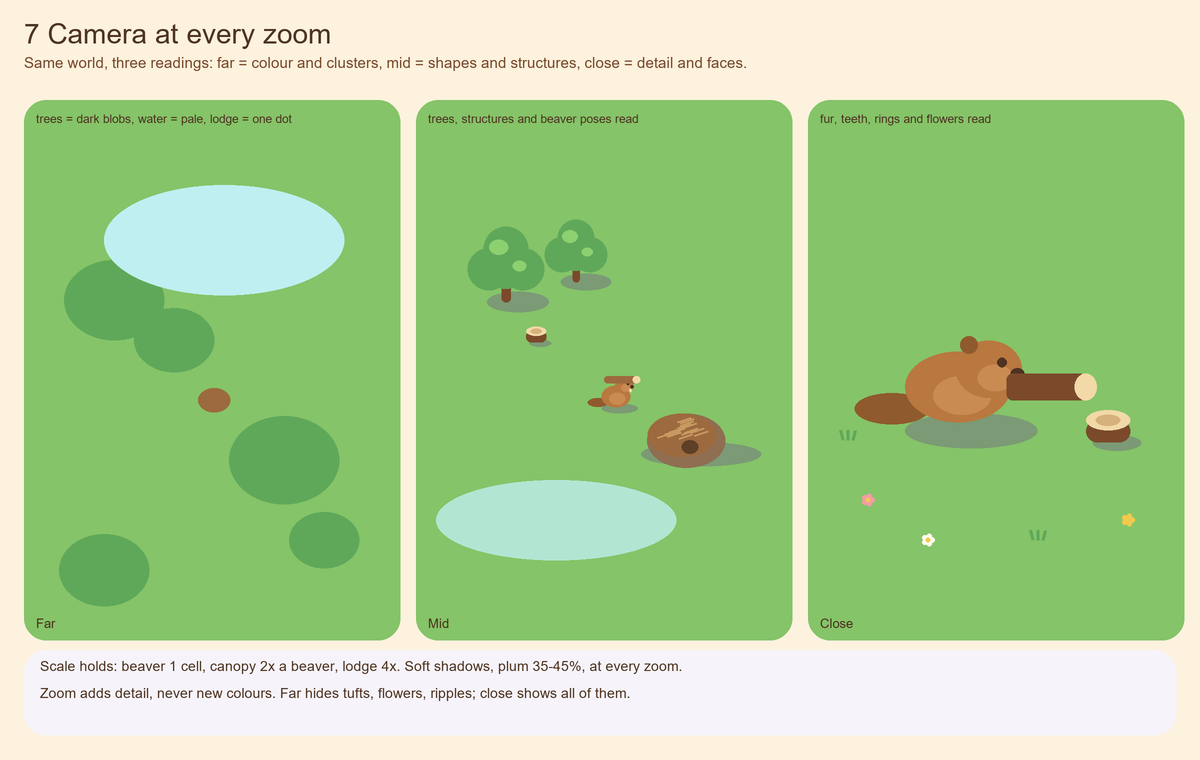
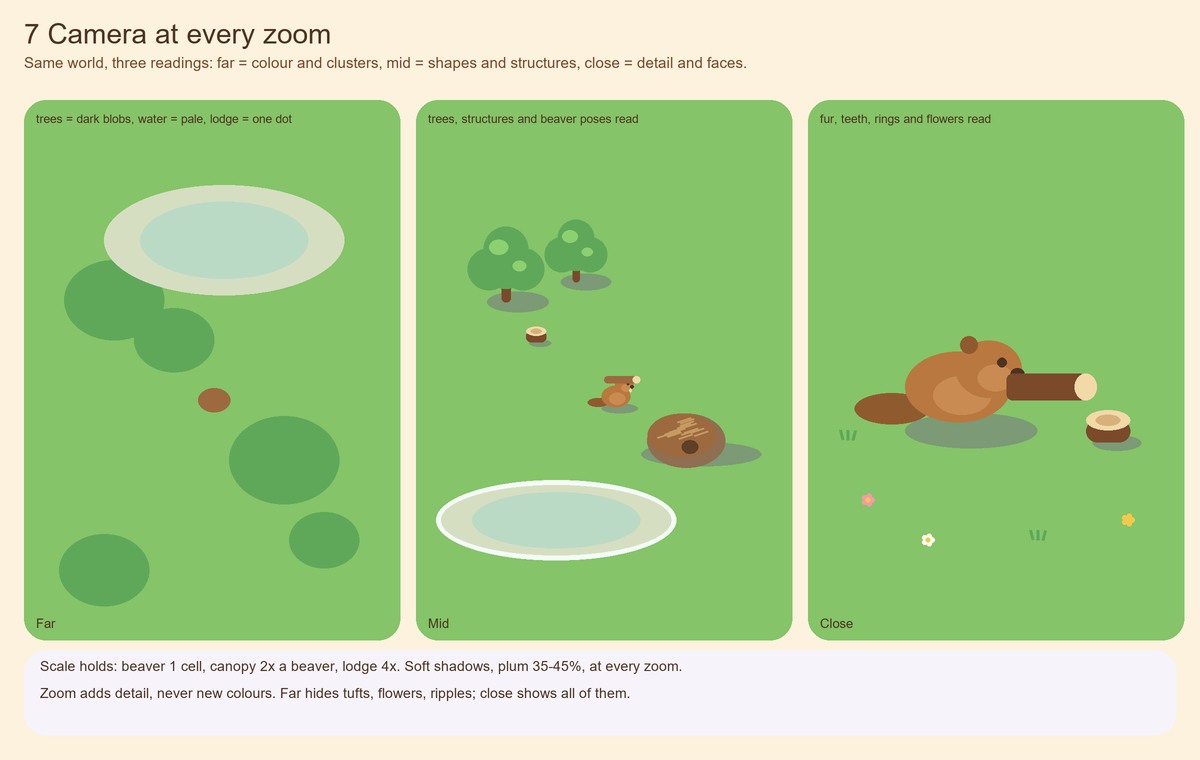
Water sheet draws nearly clear water from shared tint constants; repoint stale STYLE.md references
- palette.rs: WATER_TINT_* opacities, WATER_DEEP_NUDGE and water_band() with a unit test
- style_sheets.py: one water() helper (visible bed, one tint per depth band, foam ring) used by
  water, structures, swim pose and camera sheets; depth panels show bed at labelled opacity
- swim pose leaves foam arcs, not a white disc
- UI_SPEC.md owns UI styling and icon tile tints; code comments no longer cite the removed fix log

Changed region(s): [[0.0617, 0.2421, 0.3083, 0.3934], [0.3392, 0.6053, 0.5858, 0.7566]]

diff --git a/tools/style_sheets.py b/tools/style_sheets.py
@@ -19,7 +19,27 @@ def load_palette():
     return {n: "#%06X" % int(h, 16) for n, h in re.findall(r"pub const (\w+): Rgb = rgb\(0x([0-9A-Fa-f]{6})\)", src)}
 
 
+def load_floats():
+    src = open(os.path.join(ROOT, "crates/game/src/palette.rs"), encoding="utf-8").read()
+    return {n: float(v) for n, v in re.findall(r"pub const (\w+): f32 = ([0-9.]+);", src)}
+
+
 P = load_palette()
+F = load_floats()
+
+
+def mix_hex(a, b, t):
+    ca, cb = c(a), c(b)
+    return tuple(round(ca[i] + (cb[i] - ca[i]) * t) for i in range(3))
+
+
+def water_band(depth):
+    """(rgb, alpha 0-255) of a water band, mirroring palette::water_band."""
+    if depth == 0:
+        return c("WATER_CLEAR"), round(F["WATER_TINT_SHALLOW"] * 255)
+    if depth == 1:
+        return c("WATER_MID_GLOW"), round(F["WATER_TINT_MID"] * 255)
+    return mix_hex("WATER_CLEAR", "WATER_DEEP", F["WATER_DEEP_NUDGE"]), round(F["WATER_TINT_DEEP"] * 255)
 
 
 def c(name, alpha=None):
@@ -51,7 +71,7 @@ class Sheet:
 
     def _blend(self, draw_fn, col, a):
         """Draw a shape with real alpha blending (PIL's RGBA draw replaces pixels)."""
-        fill = c(col, a) if isinstance(col, str) else col
+        fill = c(col, a) if isinstance(col, str) else (tuple(col[:3]) + (a,) if len(col) == 3 else tuple(col))
         if len(fill) == 4 and fill[3] < 255:
             layer = Image.new("RGBA", self.img.size, (0, 0, 0, 0))
             draw_fn(ImageDraw.Draw(layer), fill)
@@ -123,6 +143,32 @@ def flower(s, x, y, col="FLOWER_WHITE"):
     s.ell(x, y, 2.2, 2.2, "FLOWER_YELLOW")
 
 
+def water(s, cx, cy, rx, ry, bed="SAND", bands=3, foam=True, bed_detail=True):
+    """A pool: visible bed, then one tint per depth band (never stacked), then a foam ring."""
+    s.ell(cx, cy, rx, ry, bed)
+    if bed_detail:
+        s.ell(cx - rx * .25, cy + ry * .15, rx * .3, ry * .28, "MUD")
+        s.ell(cx - rx * .35, cy + ry * .25, rx * .1, ry * .1, "STONE")
+        s.ell(cx + rx * .3, cy - ry * .2, rx * .18, ry * .16, "LILY")
+        rock(s, cx + rx * .05, cy + ry * .35, max(4, rx * .05))
+    # each band replaces the shallower tint inside its ellipse, so opacity never adds up
+    for d in range(bands):
+        k = 1 - d * .3
+        col, a = water_band(d)
+        layer = Image.new("RGBA", s.img.size, (0, 0, 0, 0))
+        mask = Image.new("L", s.img.size, 0)
+        ImageDraw.Draw(mask).ellipse([(cx - rx * k) * SS, (cy - ry * k) * SS, (cx + rx * k) * SS, (cy + ry * k) * SS], fill=255)
+        if d == 0:
+            base = s.img.copy()
+            s._bed = base
+        bed_img = s._bed
+        tinted = Image.alpha_composite(bed_img, Image.new("RGBA", s.img.size, col + (a,)))
+        s.img.paste(tinted, (0, 0), mask)
+    s.d = ImageDraw.Draw(s.img, "RGBA")
+    if foam:
+        s.d.ellipse([(cx - rx) * SS, (cy - ry) * SS, (cx + rx) * SS, (cy + ry) * SS], outline=c("FOAM"), width=5 * SS)
+
+
 def lodge(s, x, y, stage, scale=1.0):
     """Dome of sticks that grows: 1 mound, 2 low dome with door, 3 full dome with chimney gap and store."""
     k = scale
@@ -152,10 +198,12 @@ def dam(s, x, y, stage):
 
 def beaver(s, x, y, pose, sc=1.0):
     k = sc
-    s.shadow(x + 6 * k, y + 14 * k, 30 * k, 8 * k)
-    if pose == "swim":
-        s.ell(x, y + 8 * k, 44 * k, 10 * k, "FOAM", 150)
-        s.ell(x, y + 6 * k, 26 * k, 7 * k, "WATER_CLEAR", 140)
+    if pose != "swim":
+        s.shadow(x + 6 * k, y + 14 * k, 30 * k, 8 * k)
+    if pose == "swim":   # foam arcs at the waterline, never a white disc
+        for dx, w in ((-34, 30), (30, 26), (-4, 50)):
+            cx, cy = x + dx * k, y + (4 if dx else 12) * k
+            s.d.arc([(cx - w / 2 * k) * SS, (cy - 4 * k) * SS, (cx + w / 2 * k) * SS, (cy + 6 * k) * SS], 10, 170, fill=c("FOAM"), width=max(2, int(1.2 * k)) * SS)
         by = y - 4 * k
     else:
         by = y
@@ -237,29 +285,30 @@ def sec_ground(o):
 
 
 def sec_water(o):
-    s = Sheet("3 Water", "Nearly clear: the bed shows through a thin tint. Foam edge, soft ripples, a few lilies and reeds. No opaque blue slab.")
-    s.swatches(90, ["WATER_CLEAR", "WATER_SHALLOW", "WATER_MID_GLOW", "WATER_DEEP", "FOAM", "LILY", "REED", "SAND"], w=96)
+    s = Sheet("3 Water", "Nearly clear: the bed shows through a thin tint, 40 to 60% at most. Foam edge, soft ripples, a few lilies and reeds. No opaque blue slab.")
+    s.swatches(90, ["WATER_CLEAR", "WATER_MID_GLOW", "WATER_DEEP", "FOAM", "LILY", "REED", "SAND", "MUD"], w=96)
     s.panel(24, 210, 760, 730, "MEADOW")
-    s.ell(390, 470, 300, 190, "SAND")                       # shore
-    s.ell(390, 470, 280, 172, "MUD", 255)                   # bed visible
-    s.ell(330, 500, 90, 40, "STONE", 200); s.ell(480, 440, 60, 30, "MEADOW_DEEP", 200)  # bed features
-    s.ell(390, 470, 280, 172, "WATER_CLEAR", 120)           # clear tint: 47% of bed stays
-    s.ell(390, 470, 150, 90, "WATER_SHALLOW", 70)
-    s.d.ellipse([(390 - 280) * SS, (470 - 172) * SS, (390 + 280) * SS, (470 + 172) * SS], outline=c("FOAM"), width=6 * SS)
+    s.ell(390, 470, 300, 190, "MUD")                       # shore
+    water(s, 390, 470, 280, 172)                             # bed + three bands + foam ring
     for (x, y, w) in ((300, 410, 60), (470, 520, 70), (420, 440, 40)):
         s.d.arc([(x - w / 2) * SS, (y - 5) * SS, (x + w / 2) * SS, (y + 7) * SS], 190, 350, fill=c("FOAM"), width=2 * SS)
     for x, y in ((250, 480), (520, 470), (440, 380)):
         s.ell(x, y, 18, 10, "LILY"); s.ell(x + 3, y - 2, 6, 3, "FLOWER_PINK")
     for x in (120, 140, 660, 680):
         s.d.line([x * SS, 560 * SS, (x + 6) * SS, 500 * SS], fill=c("REED"), width=3 * SS)
-    s.text(40, 700, "Bed, stones and weed read through the water", 13)
+    s.text(40, 700, "Bed, stones and weed read through the water, even at the centre", 13)
     s.panel(790, 210, 1176, 730, "MEADOW_LIGHT", "Depth reads by tint, not by blue")
-    for i, (a, nm) in enumerate(((40, "shallow 15%"), (90, "mid 35%"), (160, "deep 55%"))):
+    for i, nm in enumerate(("shallow", "mid", "deep")):
         y = 250 + i * 110
-        s.rr(810, y, 1156, y + 90, 22, "MUD")
-        s.rr(810, y, 1156, y + 90, 22, "WATER_DEEP" if i == 2 else "WATER_CLEAR", a + 60)
+        col, a = water_band(i)
+        s.rr(810, y, 1156, y + 90, 22, "SAND")
+        s.rr(980, y, 1156, y + 90, 22, "MUD")
+        for k, bx in enumerate(range(840, 1150, 70)):            # bed stones under every band
+            rock(s, bx, y + 60, 14 if k % 2 else 10)
+        s.rr(810, y, 1156, y + 90, 22, col, a)
         s.d.line([815 * SS, (y + 4) * SS, 1150 * SS, (y + 4) * SS], fill=c("FOAM", 200), width=3 * SS)
-        s.text(824, y + 62, nm, 13)
+        tint = {0: "Water clear", 1: "Water mid glow", 2: "Water clear + 25% Water deep"}[i]
+        s.text(824, y + 10, f"{nm}: {tint} at {round(a / 2.55)}%", 13)
     s.save(o("water"))
 
 
@@ -273,7 +322,7 @@ def sec_structures(o):
     for i in range(3):
         x0 = 24 + i * 392
         s.panel(x0, 490, x0 + 376, 730, "MEADOW", f"Dam stage {i + 1}")
-        s.ell(x0 + 188, 640, 170, 40, "WATER_CLEAR", 200)
+        water(s, x0 + 188, 640, 170, 40, bands=2, bed_detail=False)
         dam(s, x0 + 188, 610, i + 1)
     s.save(o("structures"))
 
@@ -285,7 +334,9 @@ def sec_poses(o):
     for i, n in enumerate(names):
         x0 = 24 + (i % 3) * 392
         y0 = 210 + (i // 3) * 265
-        s.panel(x0, y0, x0 + 376, y0 + 250, "WATER_CLEAR" if n == "swim" else "MEADOW", n)
+        s.panel(x0, y0, x0 + 376, y0 + 250, "MEADOW", n)
+        if n == "swim":
+            water(s, x0 + 188, y0 + 120, 170, 100, bands=2)
         beaver(s, x0 + 170, y0 + 165, n, 2.2)
     s.save(o("beaver_poses"))
 
@@ -331,12 +382,12 @@ def sec_camera(o):
         if i == 0:   # blobs only
             for (dx, dy, r) in ((90, 200, 50), (150, 240, 40), (260, 360, 55), (300, 440, 35), (80, 470, 45)):
                 s.ell(x0 + dx, 100 + dy, r, r * .8, "MEADOW_DEEP")
-            s.ell(x0 + 200, 100 + 140, 120, 55, "WATER_CLEAR"); s.ell(x0 + 190, 100 + 300, 16, 12, "STICK")
+            water(s, x0 + 200, 100 + 140, 120, 55, bands=2, foam=False, bed_detail=False); s.ell(x0 + 190, 100 + 300, 16, 12, "STICK")
             s.text(x0 + 12, 112, "trees = dark blobs, water = pale, lodge = one dot", 12)
         elif i == 1:
             tree(s, x0 + 90, 300, 34); tree(s, x0 + 160, 280, 28); stump(s, x0 + 120, 340, 10)
             lodge(s, x0 + 270, 450, 2, .75)
-            s.ell(x0 + 140, 520, 120, 40, "WATER_CLEAR", 200)
+            water(s, x0 + 140, 520, 120, 40, bands=2, bed_detail=False)
             beaver(s, x0 + 200, 400, "carry", .6)
             s.text(x0 + 12, 112, "trees, structures and beaver poses read", 12)
         else:

diff --git a/crates/game/src/palette.rs b/crates/game/src/palette.rs
@@ -1,4 +1,4 @@
-//! Shared colour constants from `docs/STYLE.md` §2 (terrain, growth, wood, water, light).
+//! Shared world colour constants from `docs/STYLE.md` (terrain, growth, wood, water, light).
 //! Everything is sRGB `[r, g, b]` built from the guide's hex values, so code names a colour
 //! instead of copying digits. UI colours stay in `ui/kit.rs`.
 pub type Rgb = [f32; 3];
@@ -49,6 +49,23 @@ pub const STICK: Rgb = rgb(0x9C6A3E);
 pub const STICK_LIGHT: Rgb = rgb(0xC79A62);
 pub const DAM_MUD: Rgb = rgb(0x8F6E52);
 
+// Nearly clear water (docs/STYLE.md section 3): each depth band is one tint laid over the bed at
+// this opacity, so at least 40% of the bed always shows. Deep water is Water clear nudged a
+// quarter of the way to Water deep, never Water deep itself.
+pub const WATER_TINT_SHALLOW: f32 = 0.40;
+pub const WATER_TINT_MID: f32 = 0.50;
+pub const WATER_TINT_DEEP: f32 = 0.60;
+pub const WATER_DEEP_NUDGE: f32 = 0.25;
+
+/// Tint colour and opacity of a water band (0 shallow, 1 mid, 2 deep), laid over the bed.
+pub fn water_band(depth: usize) -> (Rgb, f32) {
+    match depth {
+        0 => (WATER_CLEAR, WATER_TINT_SHALLOW),
+        1 => (WATER_MID_GLOW, WATER_TINT_MID),
+        _ => (mix(WATER_CLEAR, WATER_DEEP, WATER_DEEP_NUDGE), WATER_TINT_DEEP),
+    }
+}
+
 /// Back to `0xRRGGBB`, so shared colours can feed code that takes hex integers.
 pub const fn pack(c: Rgb) -> u32 {
     (((c[0] * 255.0 + 0.5) as u32) << 16) | (((c[1] * 255.0 + 0.5) as u32) << 8) | ((c[2] * 255.0 + 0.5) as u32)
@@ -94,8 +111,23 @@ pub fn undo_display_transform(d: [f32; 3]) -> [f32; 3] {
 }
 
 /// Scene-linear vertex colour that the tone-mapped camera shows as the sRGB palette colour `c`, before the
-/// lighting gain of the material that draws it (`ENTITY_GAIN`, `WATER_GAIN`; docs/STYLE.md fixes 7, 8, 18).
+/// lighting gain of the material that draws it (`ENTITY_GAIN`, `WATER_GAIN`).
 pub fn display_linear(c: Rgb) -> [f32; 3] {
     let ch = |v: f32| if v <= 0.04045 { v / 12.92 } else { ((v + 0.055) / 1.055).powf(2.4) };
     undo_display_transform([ch(c[0]), ch(c[1]), ch(c[2])])
+}
+
+#[cfg(test)]
+mod tests {
+    use super::*;
+
+    #[test]
+    fn water_bands_keep_the_bed_visible() {
+        for d in 0..3 {
+            let (_, a) = water_band(d);
+            assert!(a >= 0.40 && a <= 0.60, "band {d} opacity {a}");
+        }
+        let (deep, _) = water_band(2);
+        assert!(deep[2] > 0.75, "deep tint stays pale, got {deep:?}");
+    }
 }

diff --git a/crates/game/src/terrain_render.rs b/crates/game/src/terrain_render.rs
@@ -96,7 +96,7 @@ pub fn lin(c: Rgb, a: f32) -> [f32; 4] {
 #[derive(Clone, Copy, Debug)]
 pub struct Palette {
     pub grass: Rgb,
-    /// Sunlit and shaded ends of the grass gradient (`docs/STYLE.md` §4).
+    /// Sunlit and shaded ends of the grass gradient (`docs/STYLE.md` section 2).
     pub grass_light: Rgb,
     pub grass_deep: Rgb,
     pub mud: Rgb,
@@ -273,7 +273,7 @@ fn noise(x: i32, y: i32) -> f32 {
 
 /// Grass gradient position (0 Meadow deep .. 0.5 Meadow .. 1 Meadow light): centre and how far the
 /// large patches and the sun-facing lift push it. Terrain shows its albedo on screen (see
-/// `terrain_shadow.wesl`), so the spread is what puts all three greens on screen (STYLE.md fix 3).
+/// `terrain_shadow.wesl`), so the spread is what puts all three greens on screen (STYLE.md section 2).
 const GRADE_MID: f32 = 0.58;
 const GRADE_PATCH: f32 = 1.3;
 const GRADE_SUN: f32 = 1.2;
@@ -294,7 +294,7 @@ pub struct TerrainChunks {
     material: Handle<TerrainMaterial>,
 }
 
-// ───────────── plum sun shadows (docs/STYLE.md fix 10) ─────────────
+// ───────────── plum sun shadows (docs/STYLE.md shared lighting rule) ─────────────
 
 /// Terrain material: StandardMaterial plus the plum sun-shadow pass in `terrain_shadow.wesl`.
 pub type TerrainMaterial = ExtendedMaterial<StandardMaterial, PlumShadow>;
@@ -626,10 +626,10 @@ fn blob(d: &mut Detail, centre: Vec3, r: Vec3, yaw: f32, lean: f32, dark: Rgb, l
 }
 
 /// Share of open-grass cells that get an item. A cell is about 36 px across in the close views (`--cam pond`),
-/// so this gives about one item per 40x40 px there (docs/STYLE.md fix 5; measured in `artifacts/R19-29`).
+/// so this gives about one item per 40x40 px there (docs/STYLE.md section 2; measured in `artifacts/R19-29`).
 const DETAIL_DENSITY: f32 = 0.7;
 
-/// Sparse small ground detail on open grass (`docs/STYLE.md` §4): grass tufts (two crossed
+/// Sparse small ground detail on open grass (`docs/STYLE.md` section 2): grass tufts (two crossed
 /// strokes), flowers (white, pink, yellow) and pebbles, about one item per 1.4 cells (`DETAIL_DENSITY`). Never on
 /// water, wet banks, rock or snow. Deterministic per cell.
 fn scatter_detail(s: &SimState, p: &Palette, maxh: f32, x0: i32, y0: i32, d: &mut Detail) {

diff --git a/crates/game/src/entities_render/models.rs b/crates/game/src/entities_render/models.rs
@@ -18,7 +18,7 @@ pub const TAIL_PIVOT: Vec3 = Vec3::new(0.0, 0.36, -0.6);
 pub const LEG_PIVOTS: [Vec3; 4] = [Vec3::new(-0.3, 0.34, 0.4), Vec3::new(0.3, 0.34, 0.4), Vec3::new(-0.33, 0.36, -0.28), Vec3::new(0.33, 0.36, -0.28)];
 
 use crate::palette::{self, pack};
-// Beaver colours come from the shared palette (docs/STYLE.md fix 18), never hard-coded browns.
+// Beaver colours come from the shared palette (docs/STYLE.md section 5), never hard-coded browns.
 const FUR: u32 = pack(palette::FUR);
 const FUR_DARK: u32 = pack(palette::FUR_DARK);
 const FUR_LIGHT: u32 = pack(palette::FUR_LIGHT);
@@ -234,7 +234,7 @@ pub fn tree_mesh(sp: Species, season: Season, lod: u8) -> Mesh {
                 }
             }
             Species::Pine => {
-                // round canopy of four stacked blobs (docs/STYLE.md fix 6), no spikes
+                // round canopy of four stacked blobs (docs/STYLE.md section 1), no spikes
                 mb.cyl(v(0.0, -0.1, 0.0), v(0.0, 1.5, 0.0), 0.24, 0.16, trunk, trunk, 7);
                 let top = if season == Season::Winter { hex(0xf4f9ff) } else { light };
                 for (c, r) in [(v(0.0, 1.9, 0.0), v(1.4, 1.0, 1.4)), (v(0.2, 2.85, -0.1), v(1.08, 0.85, 1.08)), (v(-0.15, 3.7, 0.1), v(0.84, 0.72, 0.84)), (v(0.0, 4.5, 0.0), v(0.55, 0.55, 0.55))] {

diff --git a/crates/game/src/water_render.rs b/crates/game/src/water_render.rs
@@ -116,12 +116,12 @@ fn setup_water(
 const WATER_REBUILD_BUDGET_S: f32 = 0.002;
 pub const WATER_PAD: i32 = SHORE_SEARCH + 1;
 const SHORE_SEARCH: i32 = 3;
-/// Rings measured inward from the shore, in cells (docs/STYLE.md §4 and `docs/style_mockup.png`):
+/// Rings measured inward from the shore, in cells (current look; `docs/STYLE.md` section 3 sets the nearly-clear target):
 /// a solid Foam ring, then a Deep rim, the Shallow body and a Mid glow centre.
 pub const FOAM_W: f32 = 0.2;
 /// Water vertex colours are the palette colours seen through the tone mapping (`palette::display_linear`);
 /// the lit surface then multiplies them by this gain (same sun and ambient as `ENTITY_GAIN`) so a flat
-/// sun-facing patch shows its palette hex (docs/STYLE.md fixes 7 and 8).
+/// sun-facing patch shows its palette hex (docs/STYLE.md section 3).
 const WATER_GAIN: f32 = crate::entities_render::ENTITY_GAIN;
 /// Extra cuts through the surface (shore distance, cells) so colour ramps follow the rings
 /// instead of zig-zagging across the grid's triangles.

diff --git a/crates/game/src/camera.rs b/crates/game/src/camera.rs
@@ -87,7 +87,7 @@ impl Plugin for CameraPlugin {
 const SUN_SHADOWS: bool = true;
 
 fn spawn_camera(mut commands: Commands, orbit: Res<OrbitCamera>) {
-    // Near-linear tone mapping with soft highlight roll-off: colours on screen stay the palette colours (docs/STYLE.md §9 samples hexes).
+    // Near-linear tone mapping with soft highlight roll-off: colours on screen stay the palette colours (docs/STYLE.md, "Checking the running game").
     commands.spawn((Camera3d::default(), Tonemapping::SomewhatBoringDisplayTransform, orbit.transform(), MainCamera));
     // Key light: late-morning sun from the upper left, soft shadows; `update_sky_and_light` sets
     // colour and strength per season.

diff --git a/crates/game/src/entities_render.rs b/crates/game/src/entities_render.rs
@@ -192,7 +192,7 @@ struct BeaverRig {
 // Startup
 // ---------------------------------------------------------------------------------------------
 
-/// Vertex colours are the palette colours; the sun plus the high ambient (docs/STYLE.md fix 11) would
+/// Vertex colours are the palette colours; the sun plus the high ambient (docs/STYLE.md, shared lighting rule) would
 /// light them well past those colours (fur read `#DE9C63` for `#B9783F`), so the shared material scales
 /// them back until a sun-facing surface shows its palette colour (fix 18; measured, `artifacts/R19-29`).
 pub const ENTITY_GAIN: f32 = 0.55;

diff --git a/crates/game/src/startflow.rs b/crates/game/src/startflow.rs
@@ -116,7 +116,7 @@ fn begin_cli_start(
         *orbit = framed;
     }
     frame_lake(&cli, &lake, &sim.0, windows.iter().next(), &mut orbit);
-    // `--cam iso-close` / `iso-wide`: fixed views of the map centre, whatever the start (shadow checks, docs/STYLE.md fix 10).
+    // `--cam iso-close` / `iso-wide`: fixed views of the map centre, whatever the start (shadow checks, docs/STYLE.md section 7).
     if matches!(cli.cam.as_str(), "iso-close" | "iso-wide") {
         if let Some(p) = crate::camera::preset(&cli.cam) {
             *orbit = p;

diff --git a/crates/game/src/entities_render/meshgen.rs b/crates/game/src/entities_render/meshgen.rs
@@ -7,7 +7,7 @@ use bevy::render::render_resource::PrimitiveTopology;
 
 /// Vertex colour for an sRGB hex value (so palette colours can be picked by eye): the scene-linear colour
 /// that the tone-mapped camera shows as exactly that hex, before the shared material's lighting gain
-/// (docs/STYLE.md fix 18: fur on screen is `#B9783F`, not a paler brown).
+/// (docs/STYLE.md section 5: fur on screen is `#B9783F`, not a paler brown).
 pub fn hex(rgb: u32) -> [f32; 3] {
     crate::palette::display_linear(crate::palette::rgb(rgb))
 }

diff --git a/crates/game/src/ui/icons.rs b/crates/game/src/ui/icons.rs
@@ -71,7 +71,7 @@ impl Icon {
         Icon::NavColony, Icon::NavBeavers, Icon::NavStores, Icon::NavBuild, Icon::NavTech, Icon::NavEvents,
     ];
 
-    /// The 24 icons of `docs/STYLE.md` §7, in its order.
+    /// The icons listed in `docs/UI_SPEC.md` section 6.
     pub const STYLE_GUIDE: [Icon; 24] = [
         Icon::Logs, Icon::Branches, Icon::Bark, Icon::Plants, Icon::Mud, Icon::Stone,
         Icon::Food, Icon::Shelter, Icon::Rest, Icon::Mood,

diff --git a/tools/shadow_check.py b/tools/shadow_check.py
@@ -1,4 +1,4 @@
-"""Sample sun-shadow and lit terrain pixels per STYLE terrain colour (docs/STYLE.md fix 10).
+"""Sample sun-shadow and lit terrain pixels per STYLE terrain colour (docs/STYLE.md shared lighting rule).
 
 usage: shadow_check.py LIT MEASURED MASK [--glow] [--out table.md] [--title T]
   LIT       the frame rendered with BC_NO_SUN_SHADOWS=1 BC_NO_GLOW=1: classifies the terrain colour under each pixel

diff --git a/tools/style_samples.py b/tools/style_samples.py
@@ -1,4 +1,4 @@
-"""Pixel samples for docs/STYLE.md fixes 1-3, 6-11 and 18 (R19-29).
+"""Pixel samples of terrain, fur and shadow colours, compared with the docs/STYLE.md palette.
 
 usage: python tools/style_samples.py SHOT_DIR > table.md
 SHOT_DIR holds the *_noglow.png twins (BC_NO_GLOW=1: the warm UI glow tints the whole upper-left of
